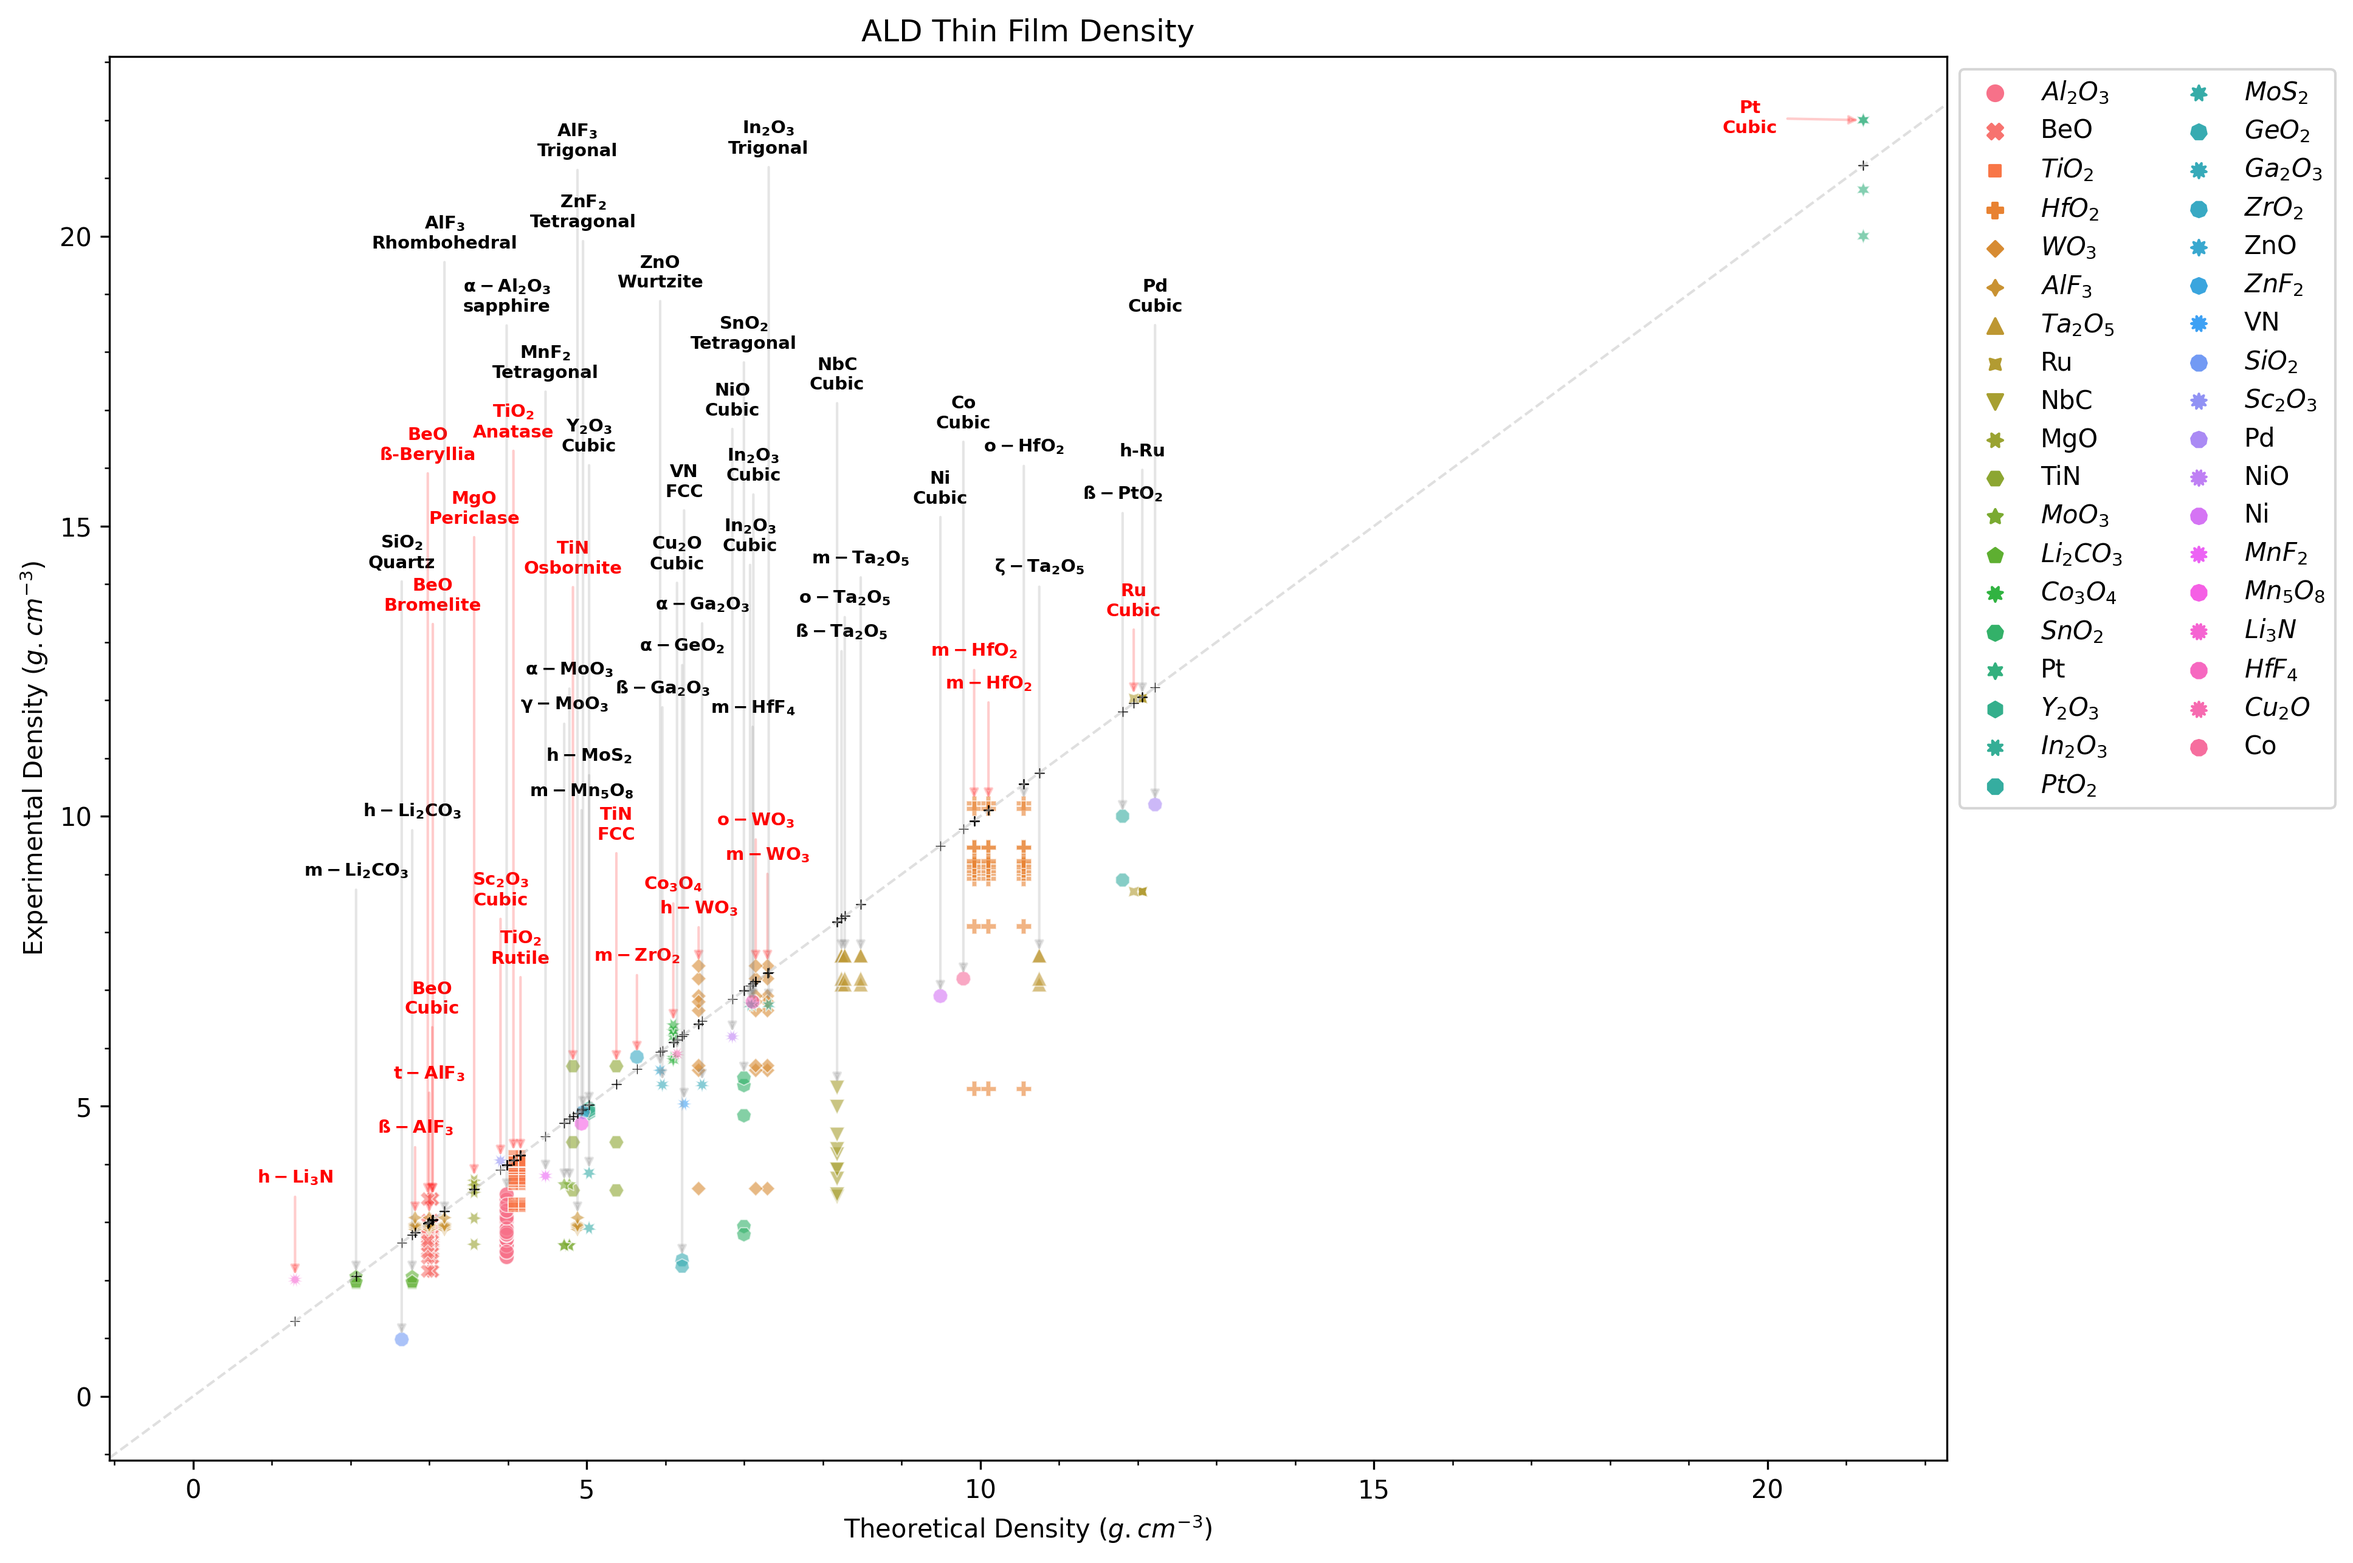
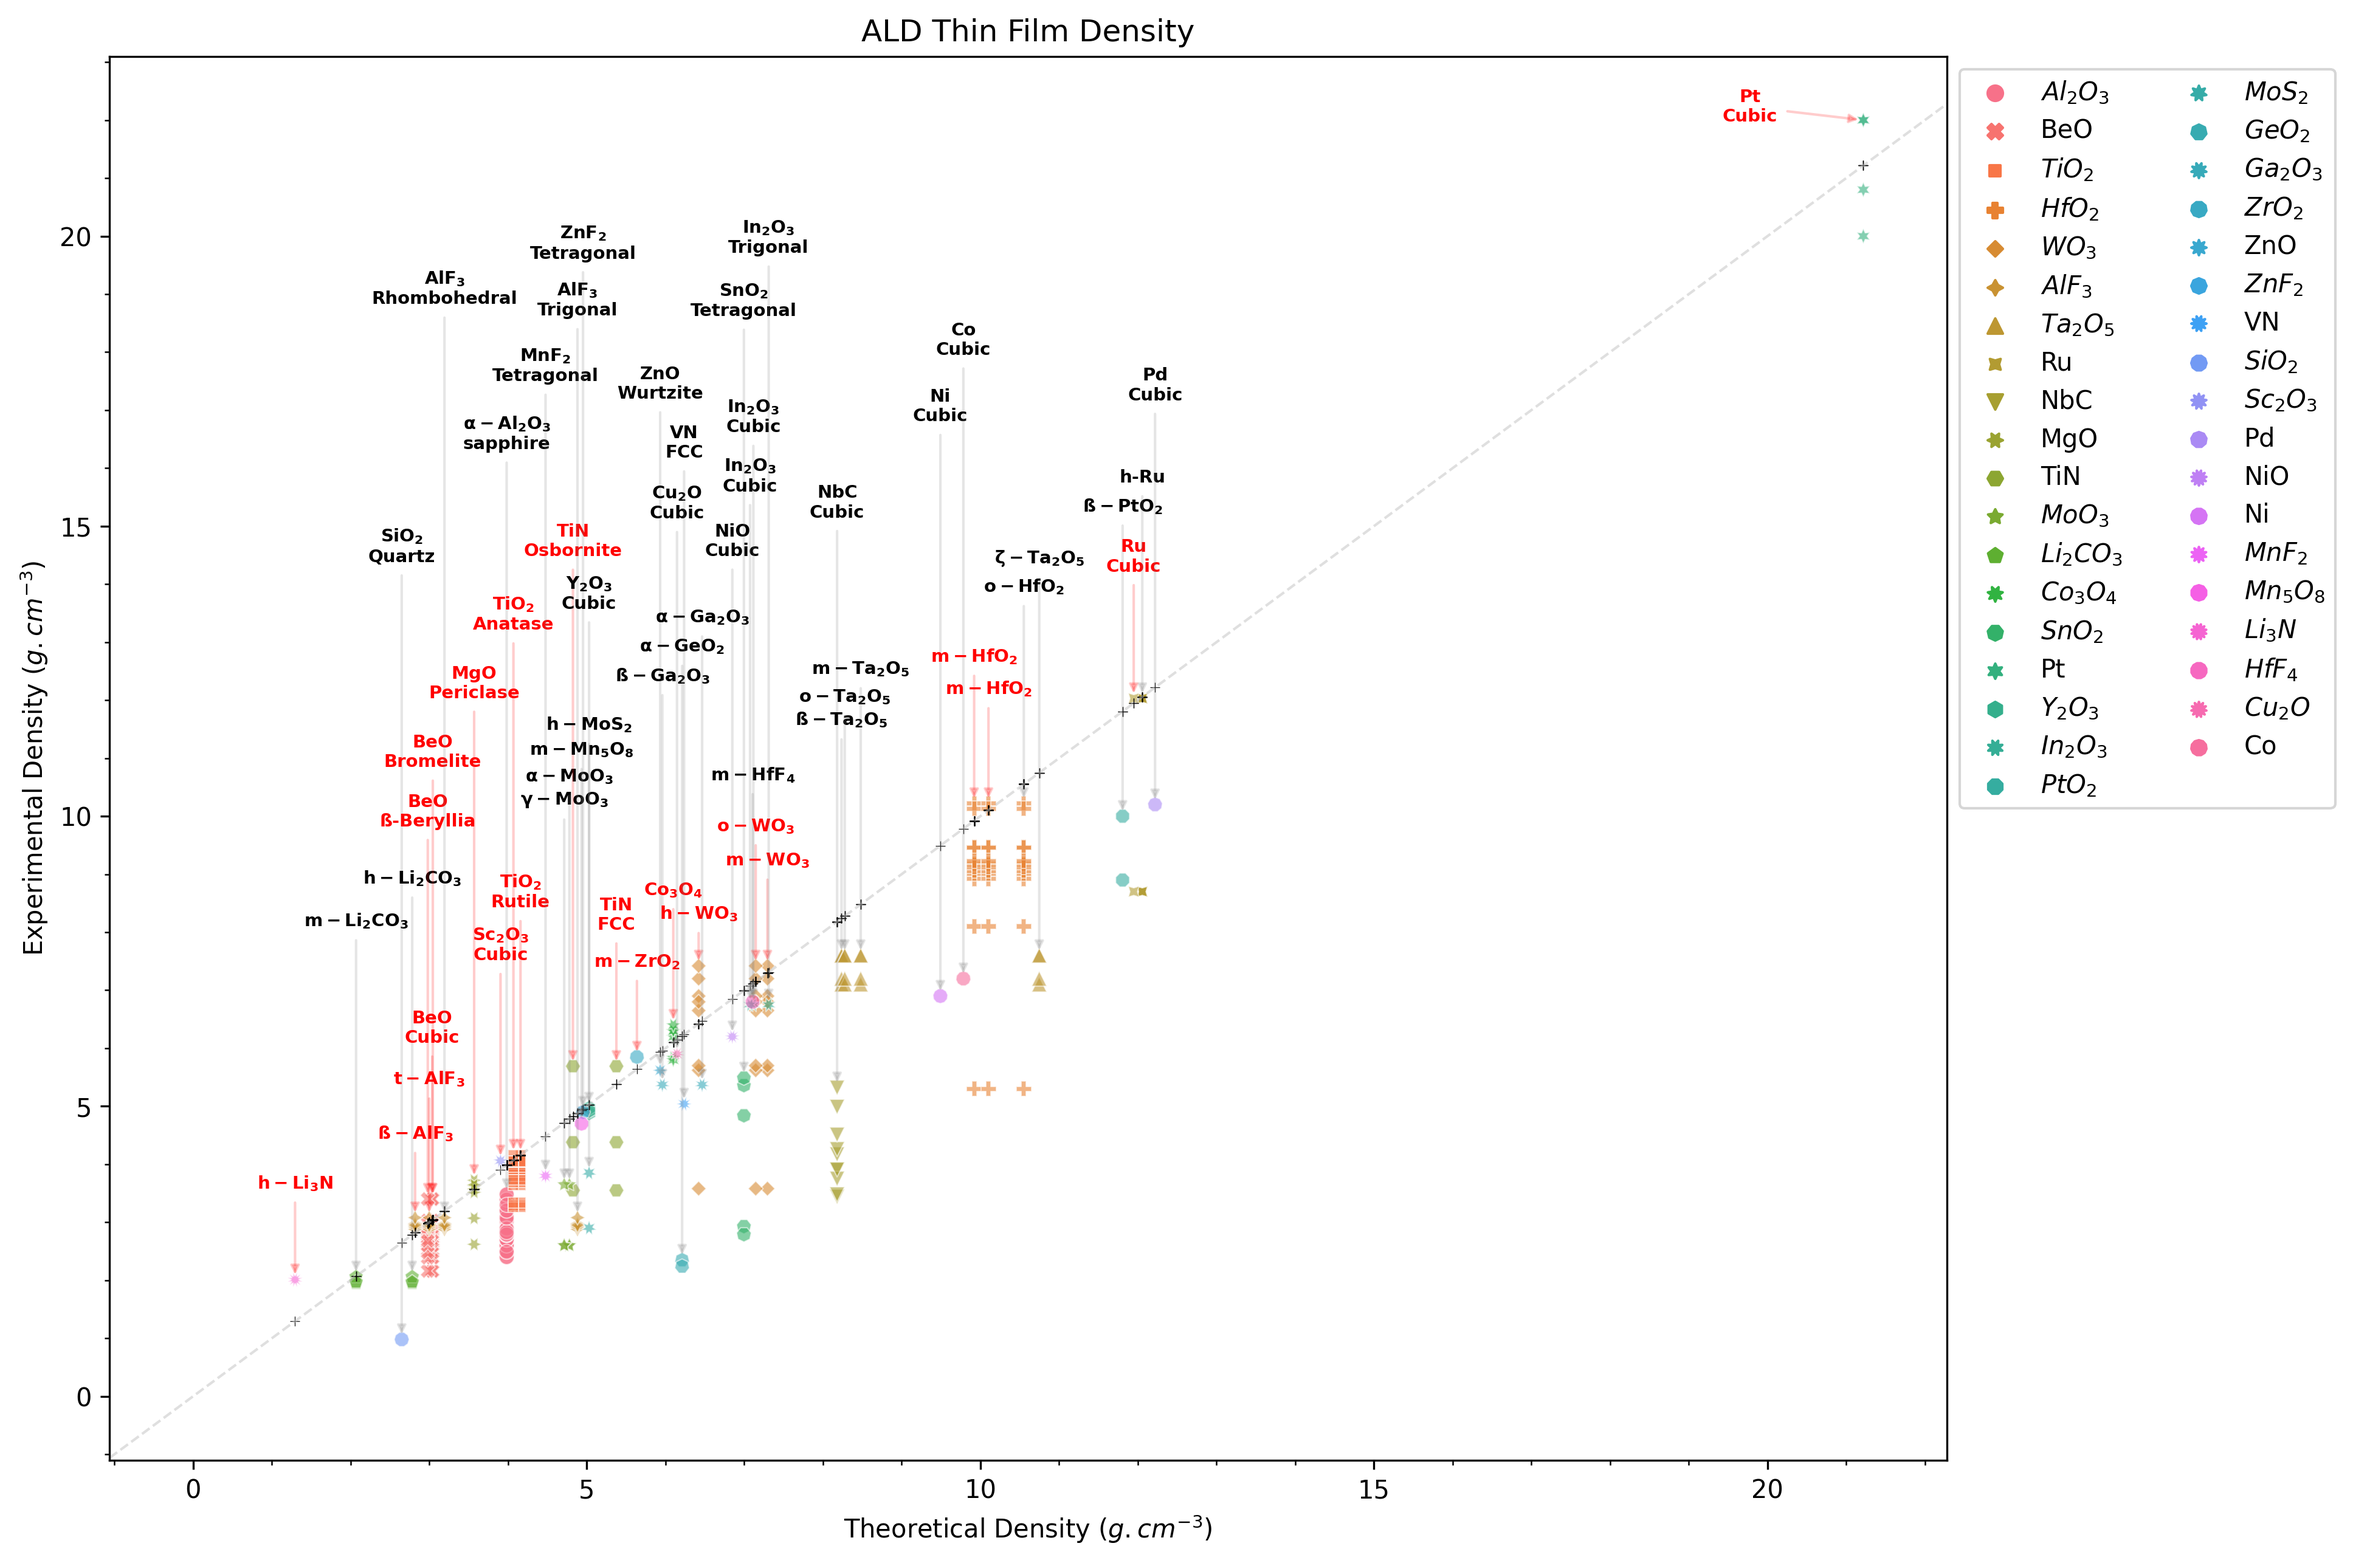
ET plot vertical labels update

diff --git a/scripts/ald-density-ET.py b/scripts/ald-density-ET.py
@@ -457,41 +457,43 @@ def plot_data1(df, x, y, z, point_labels,  **kwargs):
             # even = ~((seq_lbl_lines%2) or -1)
             if oneline:
                 # print(seq_lbl_lines, y_exp, pnt_lbl)
-                equ_x_offset=7.3 # x offset
-                scatter_shift=0
-                y_scatter = ((seq_lbl_lines+scatter_shift)%5*0.55)
+                equ_x_offset=7.0 # x offset
+                scatter_shift=8
+                y_scatter = ((seq_lbl_lines+scatter_shift)%9*0.38)
                 # flip_arrow=True
                 # pnt_scalor=2.0 # expansion scale
                 # y_line=1.0 # line to expand away from
-                equ_slope=1.5 # slope
+                equ_slope=2.0 # slope
 
                 # halign = "left"
-                valign = "top"
+                valign = "bottom"
 
             elif sm_twolines:
                 # print(seq_lbl_lines, y_exp, pnt_lbl)
-                equ_x_offset=12.8 # x offset
-                y_scatter = (seq_lbl_lines%3*1.2)
-                equ_slope=3.0 # slope
+                equ_x_offset=11.0 # x offset
+                scatter_shift=1
+                y_scatter = ((seq_lbl_lines+scatter_shift)%3*1.0)
+                equ_slope=2.0 # slope
                 # pnt_scalor=2.5 # expansion scale
                 # y_line=0.5 # line to expand away from
                 # equ_slope=mmm # slope
 
                 # rad = -0.05
                 # halign = "left"
-                valign = "top"
+                valign = "bottom"
 
             elif lg_twolines:
-                equ_x_offset=21 # x offset
-                y_scatter = (seq_lbl_lines%4*-1.25)
-                equ_slope=5.0 # slope
+                equ_x_offset=14.5 # x offset
+                scatter_shift=2
+                y_scatter = ((seq_lbl_lines+scatter_shift)%4*0.95)
+                equ_slope=2.25 # slope
 
                 # pnt_scalor=2.5 # expansion scale
                 # y_line=0.5 # line to expand away from
 
                 # rad = -0.05
                 # halign = "left"
-                valign = "top"
+                valign = "bottom"
 
 
             y_base_values = x_thr
@@ -529,7 +531,7 @@ def plot_data1(df, x, y, z, point_labels,  **kwargs):
             # even = ~((seq_lbl_lines%2) or -1)
             if oneline:
                 # print(seq_lbl_lines, y_exp, pnt_lbl)
-                equ_y_offset=1.5 # x offset
+                equ_y_offset=1.4 # x offset
                 y_scatter = (seq_lbl_lines%2 * 0.75)
                 # slider=1.0
                 # pnt_scalor=1.0 # expansion scale
@@ -541,22 +543,22 @@ def plot_data1(df, x, y, z, point_labels,  **kwargs):
 
             elif sm_twolines:
                 print(seq_lbl_lines, y_exp, pnt_lbl) # ON
-                equ_y_offset=5.4 # x offset
-                scatter_shift = 0
-                y_scatter = ((seq_lbl_lines+scatter_shift)%2 * -1.2)
+                equ_y_offset=3.5 # x offset
+                scatter_shift = 2
+                y_scatter = ((seq_lbl_lines+scatter_shift)%3 * 0.7)
                 # slider=5.0
                 # pnt_scalor=4.0 # expansion scale
                 # x_line=2.0 # line to expand away from
-                equ_slope=1.3 # slope
+                equ_slope=1.2 # slope
 
                 # rad = -0.05
                 # halign = "center"
                 valign = "bottom"
 
             elif lg_twolines:
-                equ_y_offset=12.4 # x offset
-                scatter_shift = 1
-                y_scatter = ((seq_lbl_lines+scatter_shift)%3*1.31)
+                equ_y_offset=8.7 # x offset
+                scatter_shift = 4
+                y_scatter = ((seq_lbl_lines+scatter_shift)%5*1.0)
                 # pnt_scalor=2.5 # expansion scale
                 # x_line=0.5 # line to expand away from
                 equ_slope=2.8 # slope
